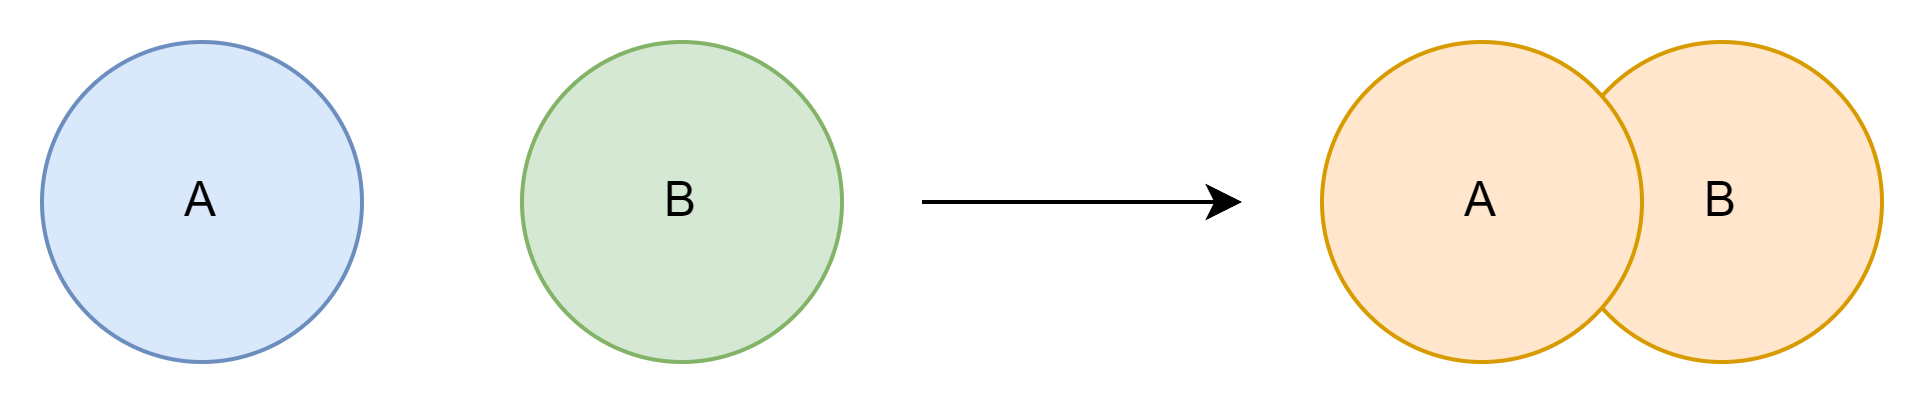
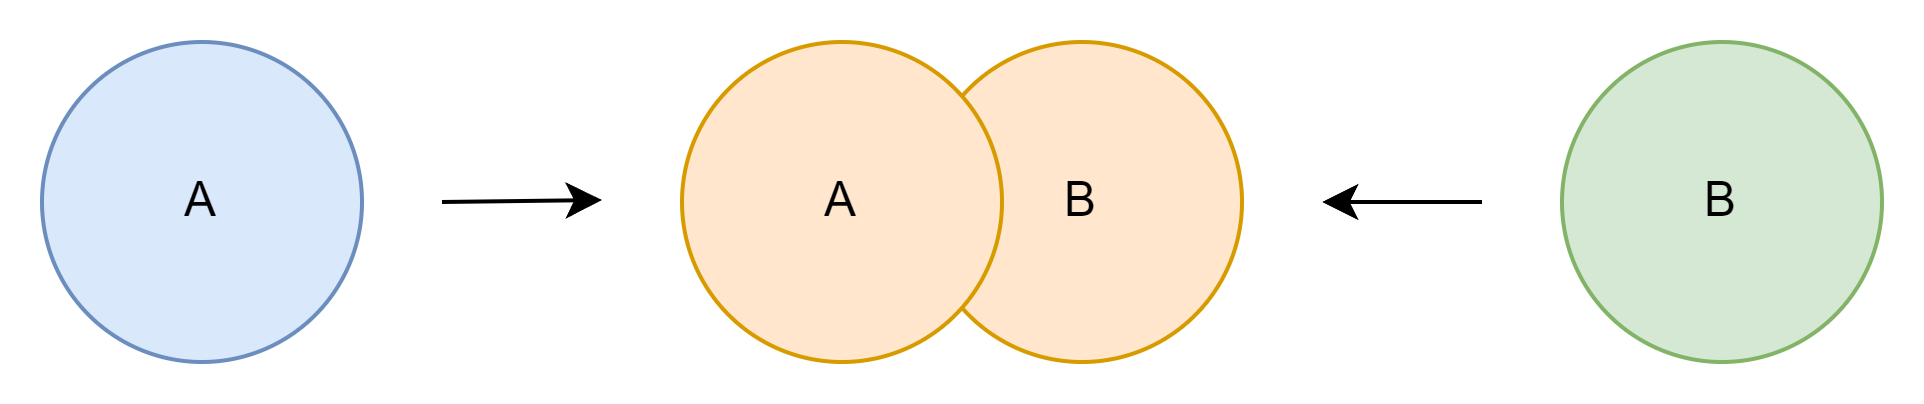
update

diff --git a/docs/sql/command.md b/docs/sql/command.md
@@ -175,6 +175,8 @@ WHERE Geburtsjahr IS NOT NULL
 
 #### Mit WHERE
 
+Mit ``WHERE`` bzw. ``JOIN`` lassen sich Datensätze aus verschiedenen Relationen horizontal vereinigen.
+
 ![img.png](/docs/img/innerjoin.png)
 
 Im Folgenden sollen die Fächer neben jeder Lehrkraft angezeigt werden, in denen diese
@@ -255,6 +257,10 @@ FROM preisliste p
 </form>
 
 #### Vereinigung mit UNION
+
+Mit ``UNION`` lassen sich Datensätze aus verschiedenen Relationen vertikal vereinigen.
+Das ist immer dann sinnvoll, wenn Spalten gleichen Datentyps verschiedener Relationen
+in Zusammenhang gebracht werden sollen.
 
 ![img.png](/docs/img/union.png)
 
